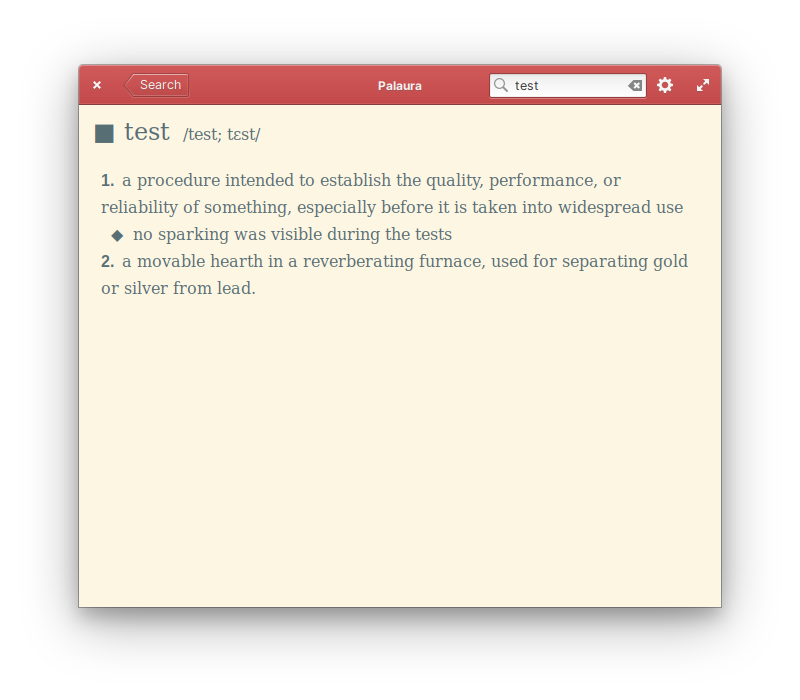
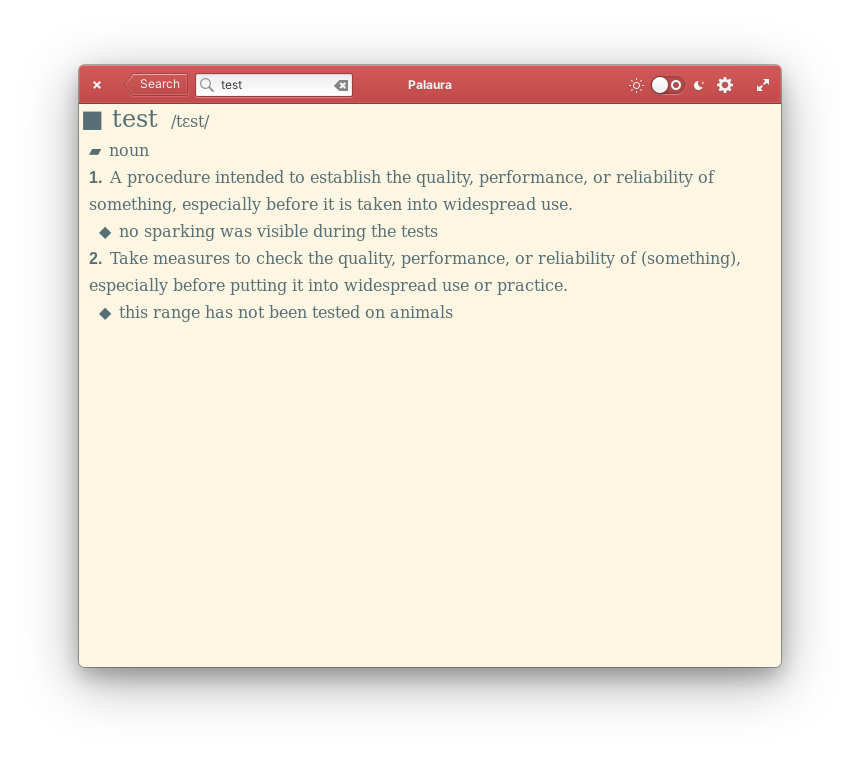
1.5.0 - new version with new API

Changed region(s): [[0.0625, 0.06, 0.9375, 0.9]]

diff --git a/data/stylesheet.css b/data/stylesheet.css
@@ -3,12 +3,21 @@
 @define-color textColorPrimary #f5f5f5;
 
 .palaura-window {
-    background-color: @colorPrimary;
+    background-color: #FDF6E3;
+}
+
+.palaura-window,
+.palaura-window decoration {
+    border-radius: 6px;
 }
 
 .palaura-window-dark {
-    background-color: shade(@colorPrimary, 1.2);
-    color: #333;
+    background-color: #002B36;
+}
+
+.palaura-window-dark,
+.palaura-window-dark decoration {
+    border-radius: 6px;
 }
 
 .palaura-view {
